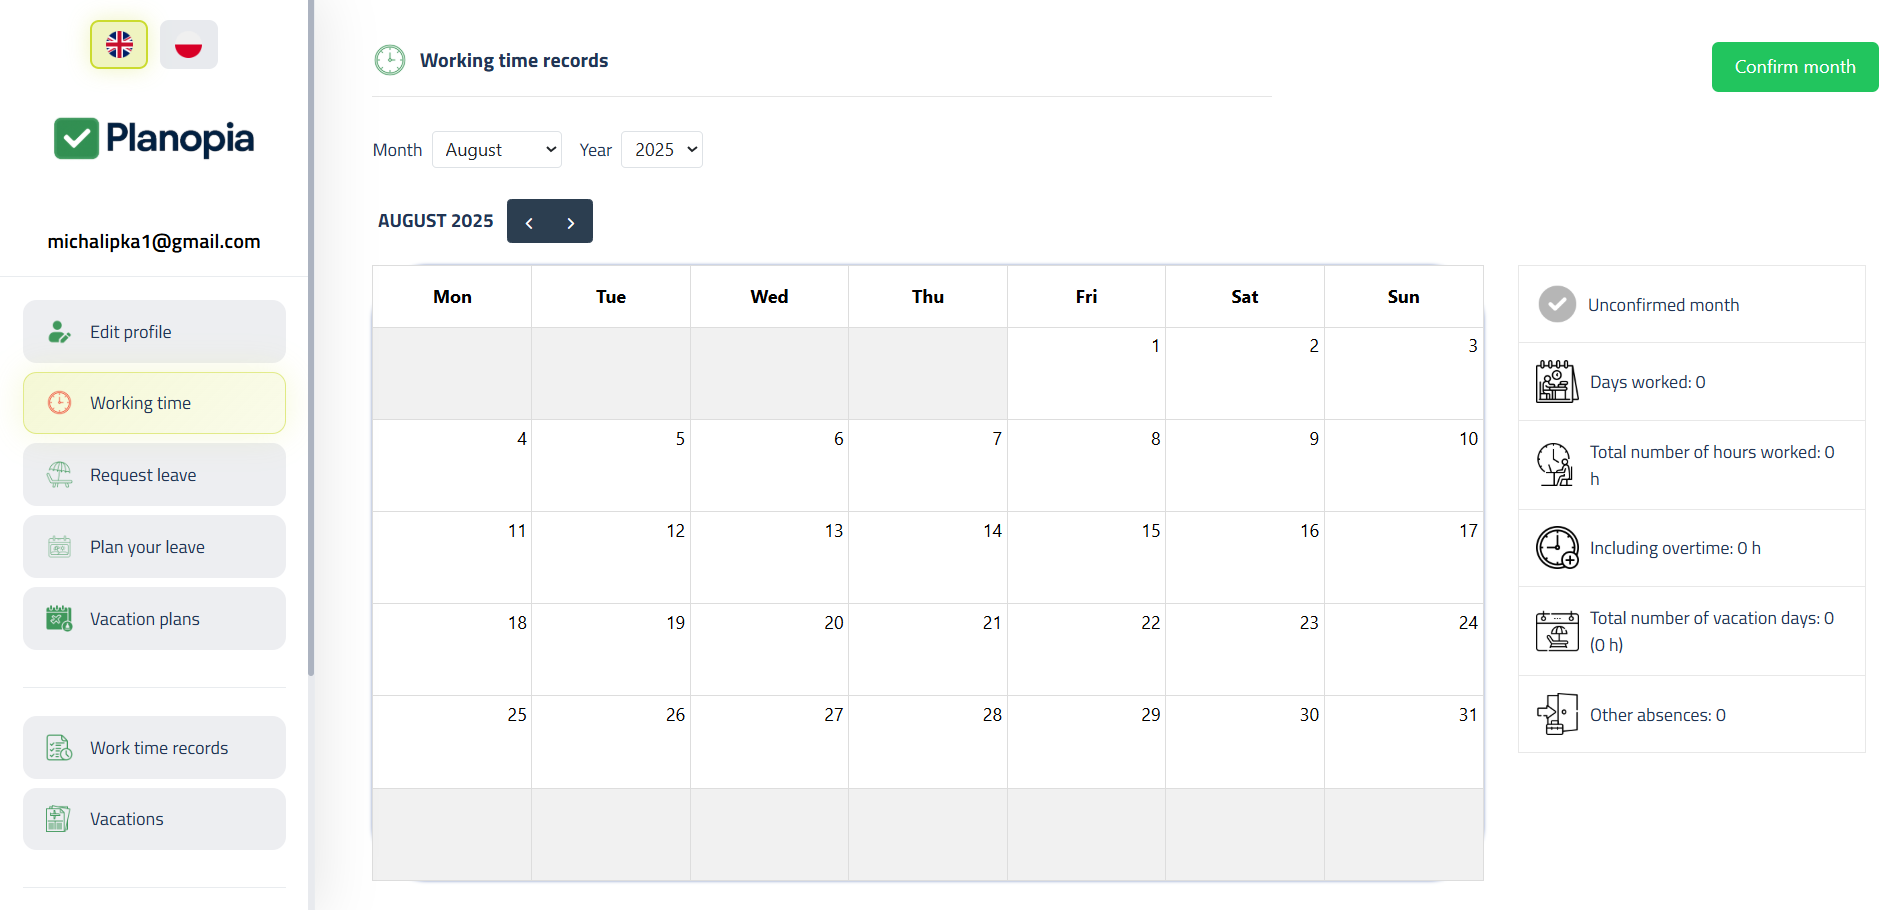
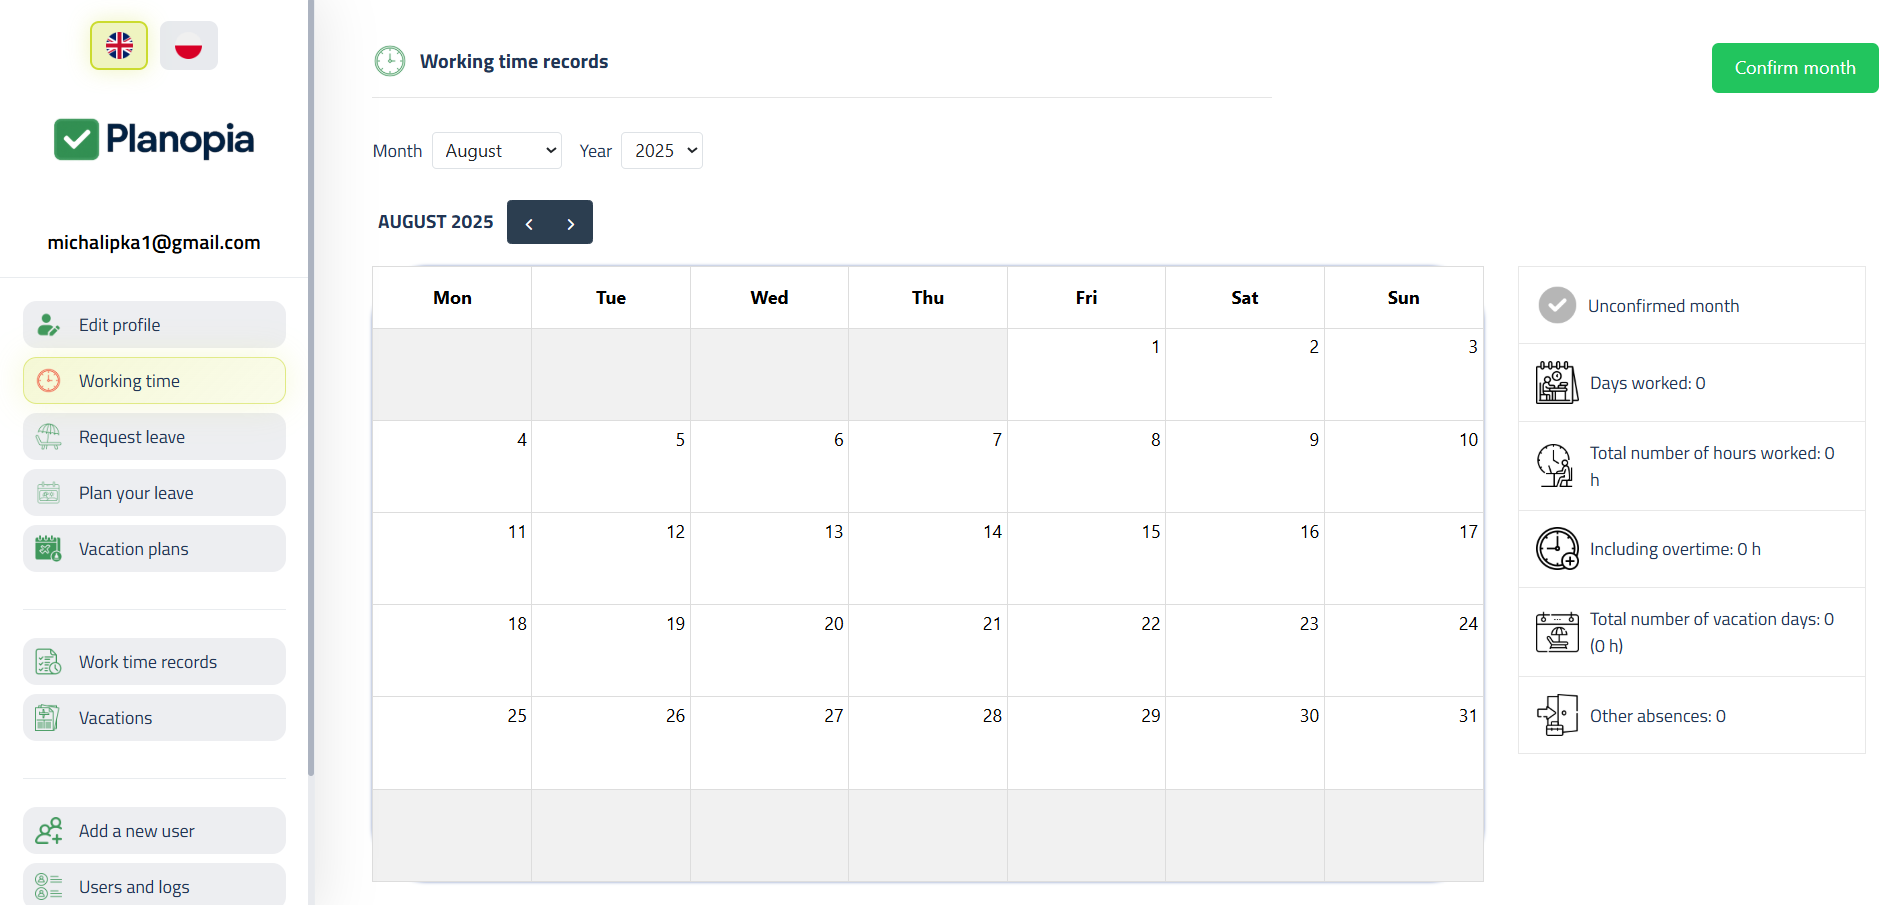
add new sidebar style

diff --git a/client/src/style.css b/client/src/style.css
@@ -2163,7 +2163,7 @@ section {
 	display: flex;
 	align-items: center;
 	gap: 15px;
-	padding: 15px 20px;
+	padding: 8px 10px;
 	color: #213555;
 	text-decoration: none;
 	border-radius: 12px;
@@ -2376,7 +2376,7 @@ section {
 	}
 
 	.nav-link {
-		padding: 12px 15px;
+		padding: 8px 15px;
 	}
 
 	.nav-text {
